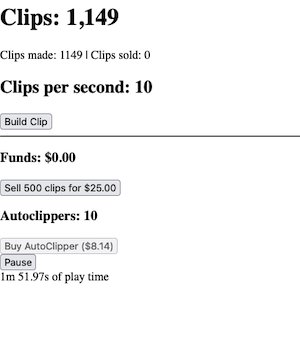
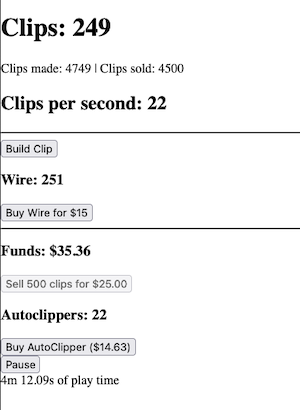
Add wire constraint, buy wire, use up wire to build clips

Changed region(s): [[0.0, 0.0, 1.0, 1.0]]

diff --git a/src/Game.tsx b/src/Game.tsx
@@ -11,7 +11,7 @@ interface IProps {
 
 interface IState {
     wire: number;
-    incompleteClip: number;
+    incompleteClips: number;
     incompleteAutoClippers: number;
     clipsMade: bigint;
     clipsSold: bigint;
@@ -23,7 +23,7 @@ interface IState {
 
 export class Game extends Component<IProps, IState>{
     public state: IState = {
-        incompleteClip: 0,
+        incompleteClips: 0,
         incompleteAutoClippers: 0,
         wire: 1000,
         clipsMade: 0n,
@@ -71,10 +71,37 @@ export class Game extends Component<IProps, IState>{
         });
     }
 
+    public canClip = () => {
+        return this.state.wire > 0;
+    }
+
     public clip = () => {
+        if (!this.canClip()) {
+            return;
+        }
         this.setState((oldState): Partial<IState> => {
             return {
-                clipsMade: oldState.clipsMade + 1n
+                clipsMade: oldState.clipsMade + 1n,
+                wire: oldState.wire - 1
+            };
+        });
+    }
+
+    public getWireCost = () => 15;
+
+    public canBuyWire = () => {
+        return this.state.funds >= this.getWireCost();
+    }
+
+    public buyWire = () => {
+        if (!this.canBuyWire()){
+            return;
+        }
+
+        this.setState((oldState): Partial<IState> => {
+            return {
+                wire: oldState.wire + 1000,
+                funds: oldState.funds - this.getWireCost()
             };
         });
     }
@@ -82,7 +109,7 @@ export class Game extends Component<IProps, IState>{
     public canSellClips = () => {
         const { clipsMade, clipsSold } = this.state;
         const clipsLeft = clipsMade - clipsSold;
-        return clipsLeft > 500n;
+        return clipsLeft >= 500n;
     }
 
     public sellClips = () => {
@@ -115,11 +142,20 @@ export class Game extends Component<IProps, IState>{
 
     public update = (deltaTimeMS: number) => {
         this.setState((oldState: IState): Partial<IState> => {
+            const {
+                wire: oldWire,
+                incompleteClips: oldIncompleteClips,
+                autoClippers,
+                clipsMade: oldClipsMade
+            } = oldState;
+
             const newState: Partial<IState> = {};
-            const newIncompleteClips = oldState.incompleteClip + oldState.autoClippers * (deltaTimeMS / 1000);
-            if (newIncompleteClips > 1) {
-                newState.clipsMade = oldState.clipsMade + BigInt(Math.floor(newIncompleteClips));
-                newState.incompleteClip = newIncompleteClips % 1;
+            const newIncompleteClips = oldIncompleteClips + autoClippers * (deltaTimeMS / 1000);
+            const newClipsMade = Math.min(oldWire, Math.floor(newIncompleteClips));
+            if (newClipsMade >= 1) {
+                newState.clipsMade = oldClipsMade + BigInt(newClipsMade);
+                newState.incompleteClips = newIncompleteClips % 1;
+                newState.wire = oldWire - newClipsMade;
 
                 // calculate updated clipsPerSecond
                 const cutoff = this.props.ageMS - 2000;
@@ -127,7 +163,7 @@ export class Game extends Component<IProps, IState>{
                 newClipsPerSecond.push({time: this.props.ageMS, clips: newState.clipsMade});
                 newState.clipsPerSecond = newClipsPerSecond;
             } else {
-                newState.incompleteClip = newIncompleteClips;
+                newState.incompleteClips = newIncompleteClips;
             }
 
             return newState;
@@ -148,7 +184,10 @@ export class Game extends Component<IProps, IState>{
                 <h1>Clips: {printNumberWithCommas(clipsMade - clipsSold)}</h1>
                 <div>Clips made: {clipsMade} | Clips sold: {clipsSold}</div>
                 <h2>Clips per second: {printNumberWithCommas(this.getClipsPerSecond())}</h2>
-                <button onClick={this.clip}>Build Clip</button>
+                <hr />
+                <button onClick={this.clip} disabled={!this.canClip()}>Build Clip</button>
+                <h3>Wire: {printNumberWithCommas(this.state.wire)}</h3>
+                <button onClick={this.buyWire} disabled={!this.canBuyWire()}>Buy Wire for ${this.getWireCost()}</button>
                 <hr />
                 <h3>Funds: ${funds.toFixed(2)}</h3>
                 <button disabled={!this.canSellClips()} onClick={this.sellClips}>

diff --git a/README.md b/README.md
@@ -14,6 +14,8 @@ I wanted to test how to run a game loop at 60FPS within React, and learn some of
 - Added extremely large number formatting (printing numbers up to 999 novenonagintillion)
 - Added time formatting: Yy Dd Hh Mm S.MMMs (eg 123y 45d 01h 23m 45.678s)
 - Added funds, selling clips, and buying autoclippers.
+- Added wire, buying wire, running out of wire
+- Fixed bugs with printing large numbers, and improved the game loop
 
 # Dev
 
